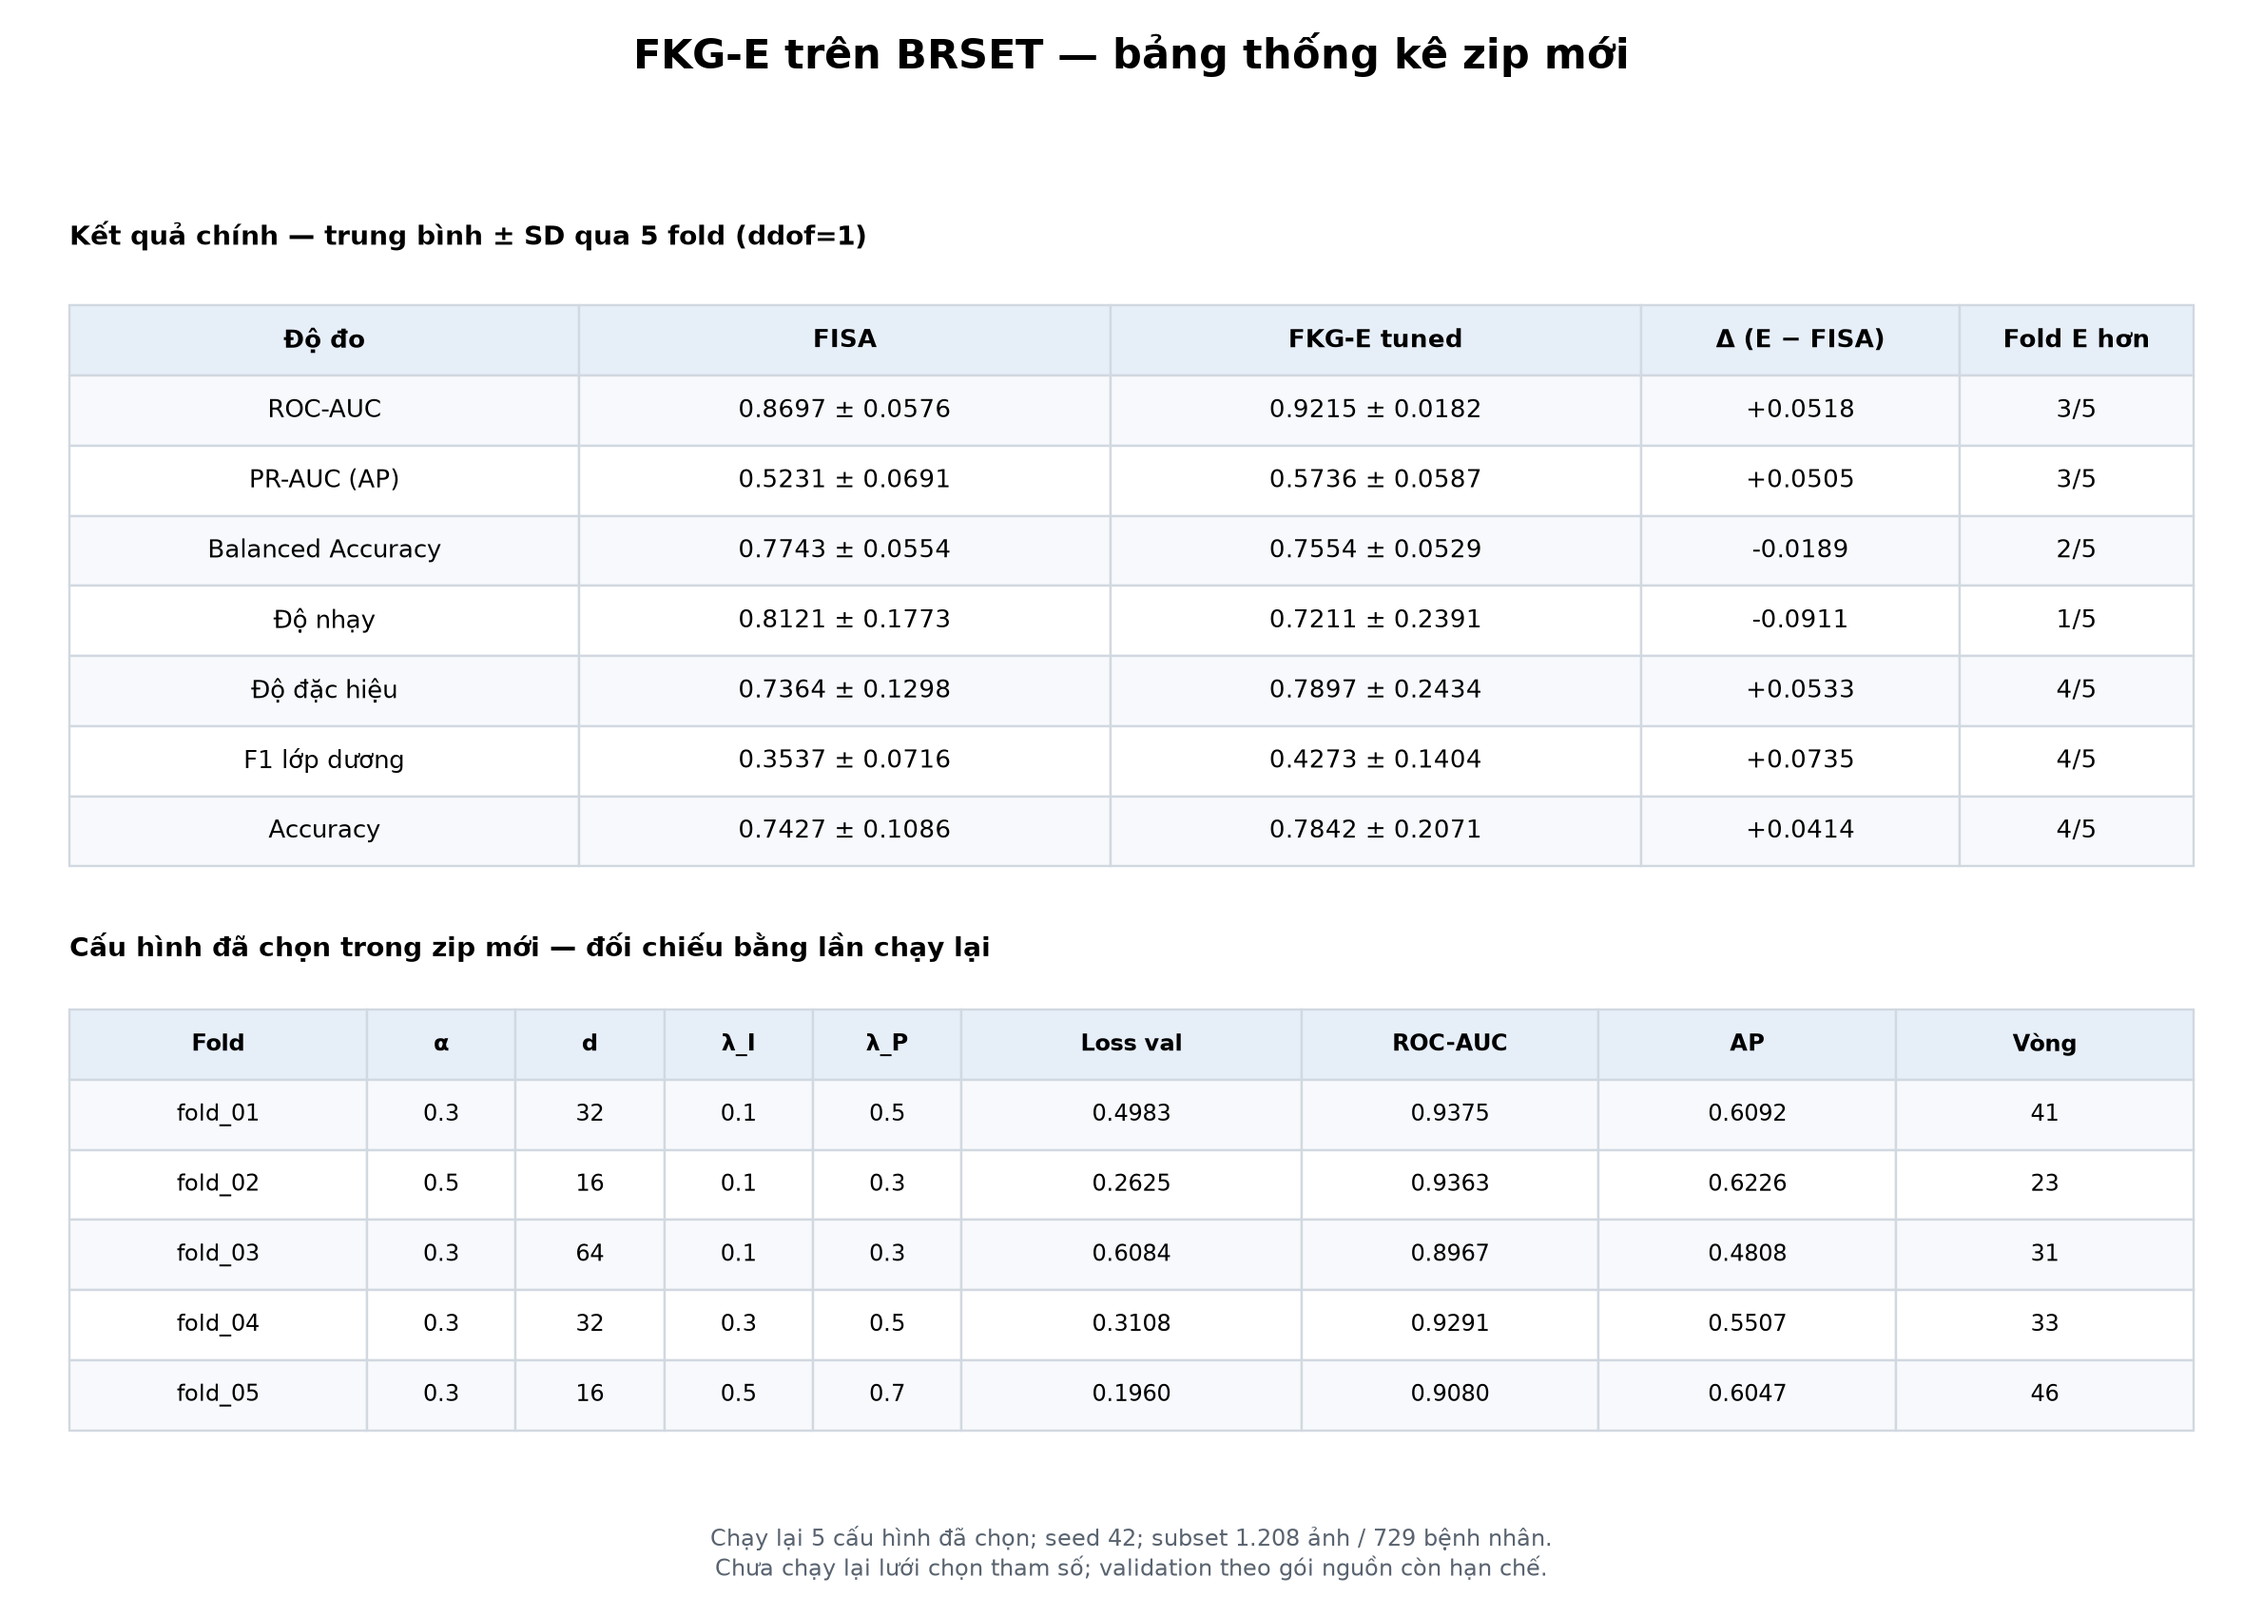
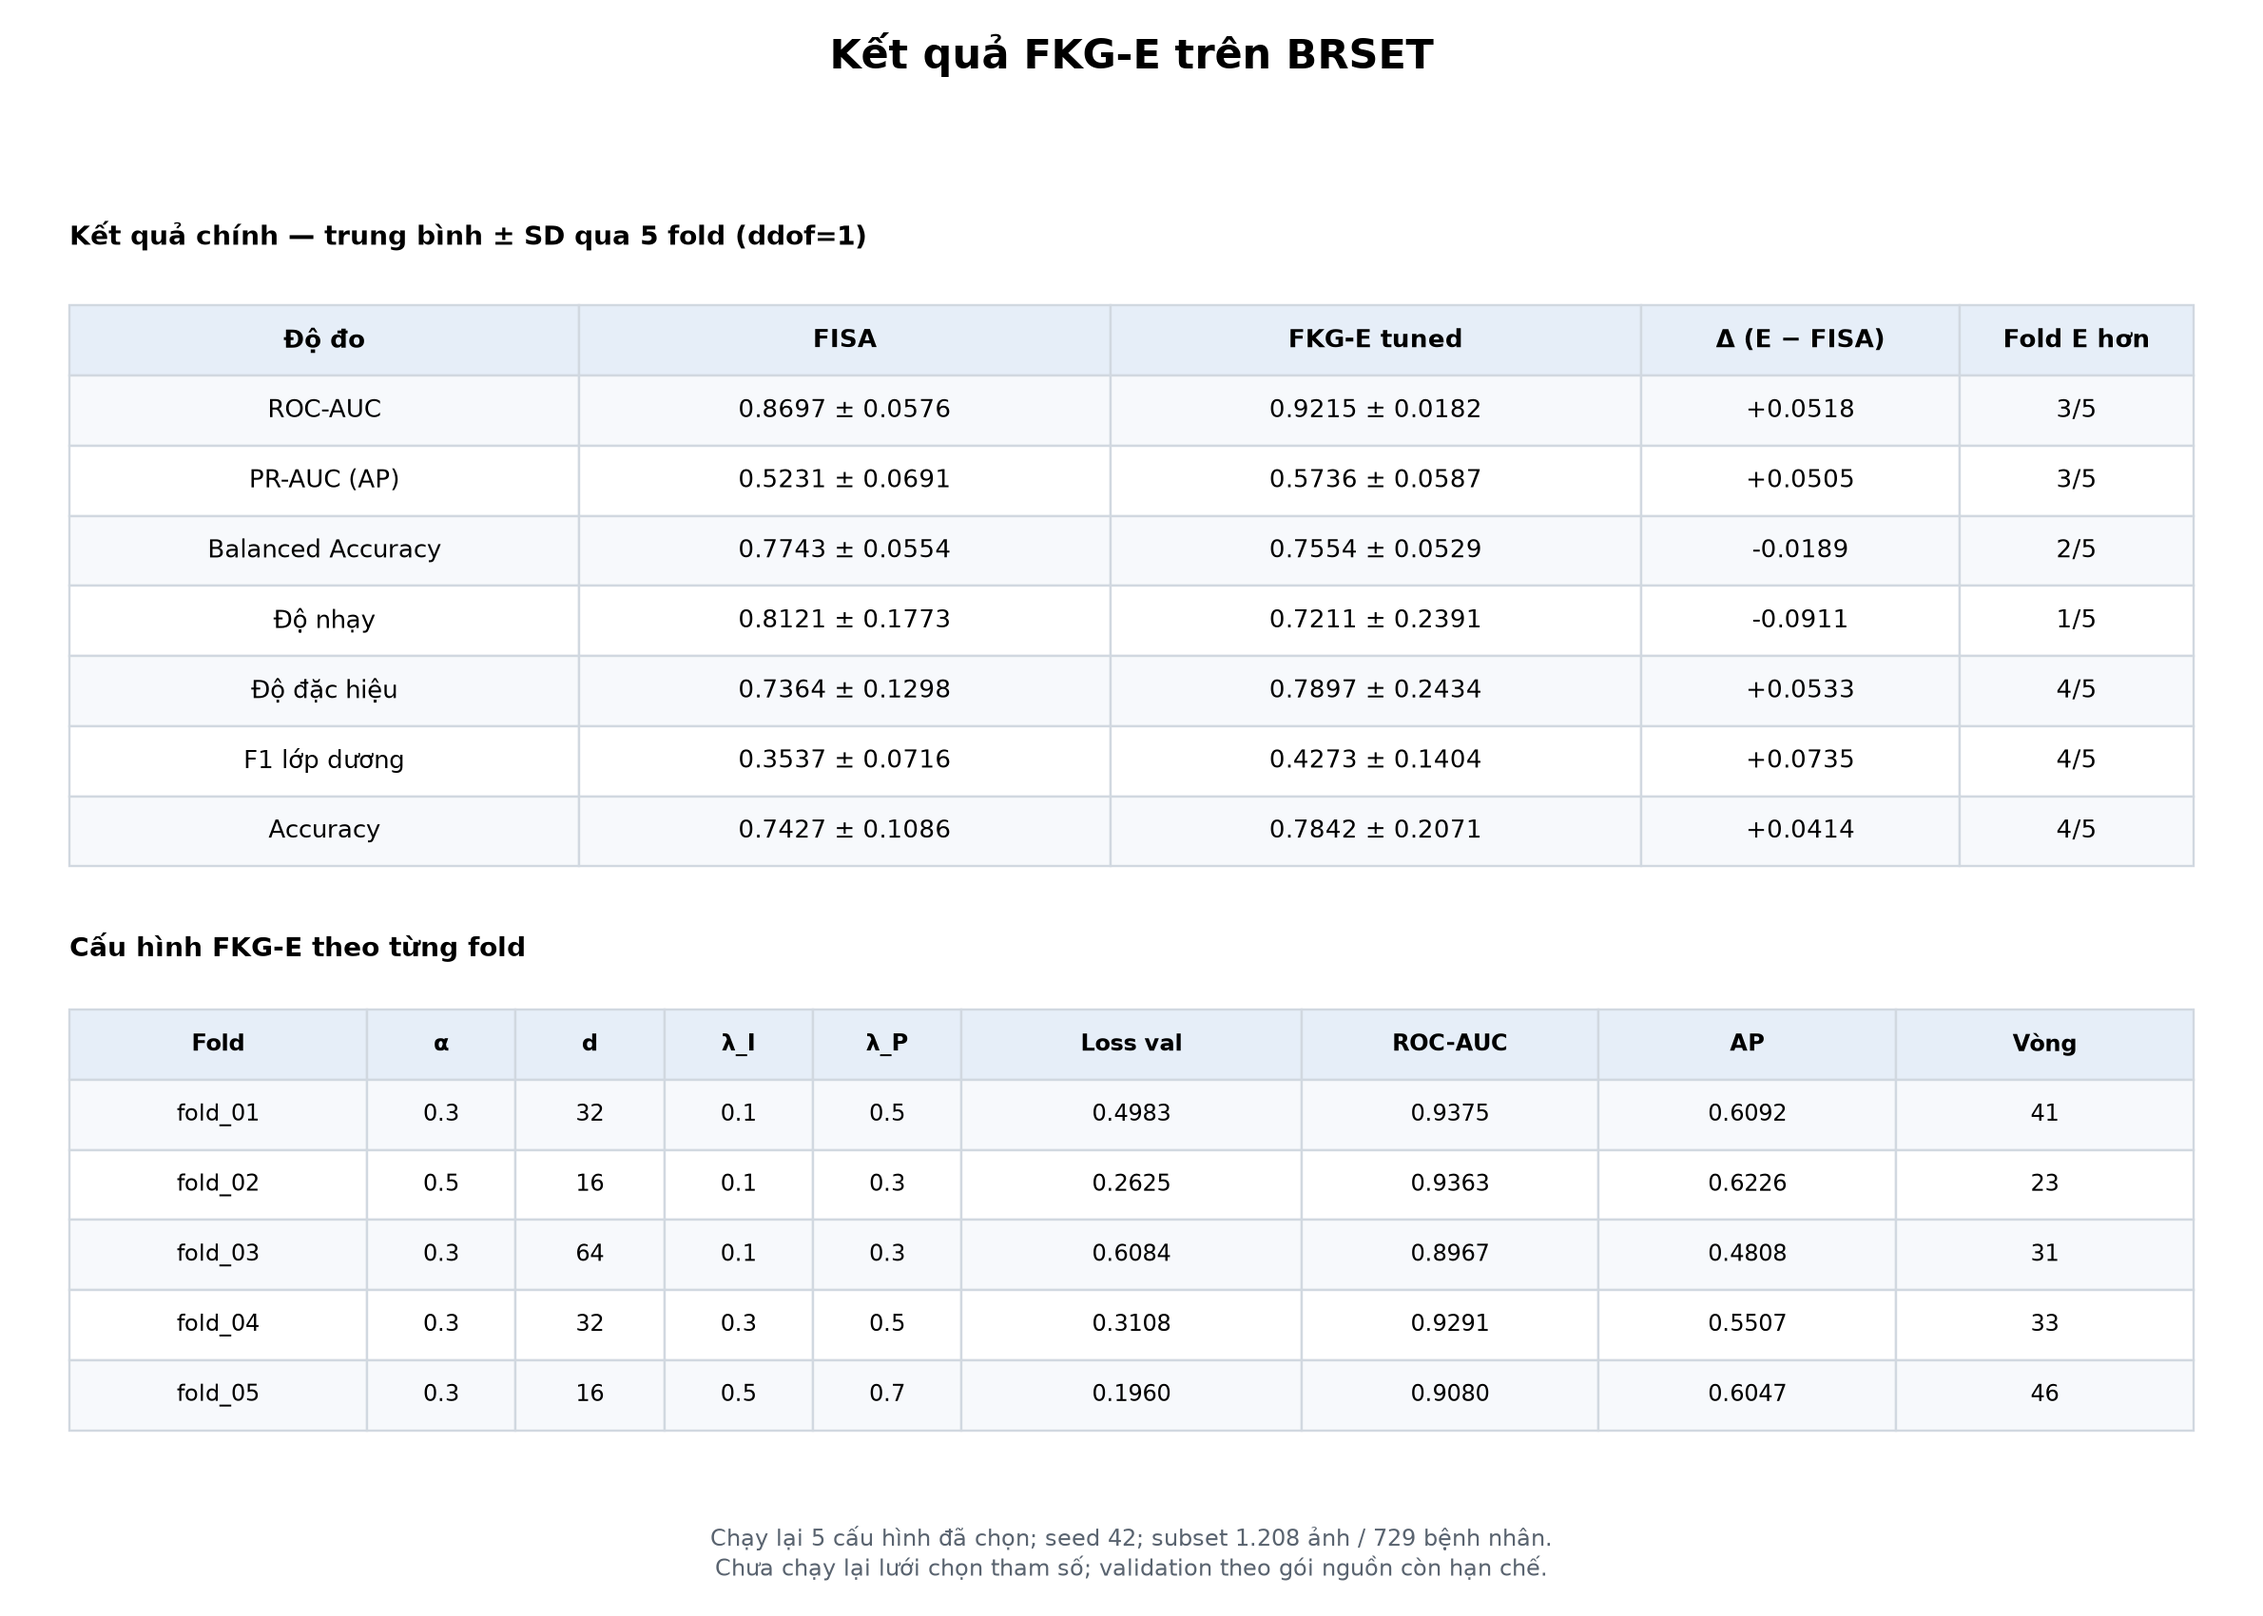
Remove archive wording from FKG-E table figure

Changed region(s): [[0.2798, 0.0, 0.7151, 0.0624], [0.0933, 0.5612, 0.4353, 0.5924]]

diff --git a/reproducibility/fkge_result_figures/summarize.py b/reproducibility/fkge_result_figures/summarize.py
@@ -214,10 +214,10 @@ def new_figure(main, selected, output):
     rows = [[r["fold"], f"{r['alpha']:g}", r["d_e"], f"{r['lam_I']:g}", f"{r['lam_P']:g}",
              f"{r['val_pred_loss']:.4f}", f"{r['test_auc']:.4f}", f"{r['test_ap']:.4f}", r["epochs"]]
             for r in selected]
-    draw_table(axes[1], "Cấu hình đã chọn trong zip mới — đối chiếu bằng lần chạy lại",
+    draw_table(axes[1], "Cấu hình FKG-E theo từng fold",
                ["Fold", "α", "d", "λ_I", "λ_P", "Loss val", "ROC-AUC", "AP", "Vòng"], rows,
                [0.14, 0.07, 0.07, 0.07, 0.07, 0.16, 0.14, 0.14, 0.14])
-    fig.suptitle("FKG-E trên BRSET — bảng thống kê zip mới", fontsize=18, fontweight="bold", y=0.98)
+    fig.suptitle("Kết quả FKG-E trên BRSET", fontsize=18, fontweight="bold", y=0.98)
     fig.text(0.5, 0.025, "Chạy lại 5 cấu hình đã chọn; seed 42; subset 1.208 ảnh / 729 bệnh nhân.\n"
              "Chưa chạy lại lưới chọn tham số; validation theo gói nguồn còn hạn chế.", ha="center", fontsize=10, color="#59636f")
     fig.tight_layout(rect=(0.02, 0.10, 0.98, 0.92), h_pad=3)
